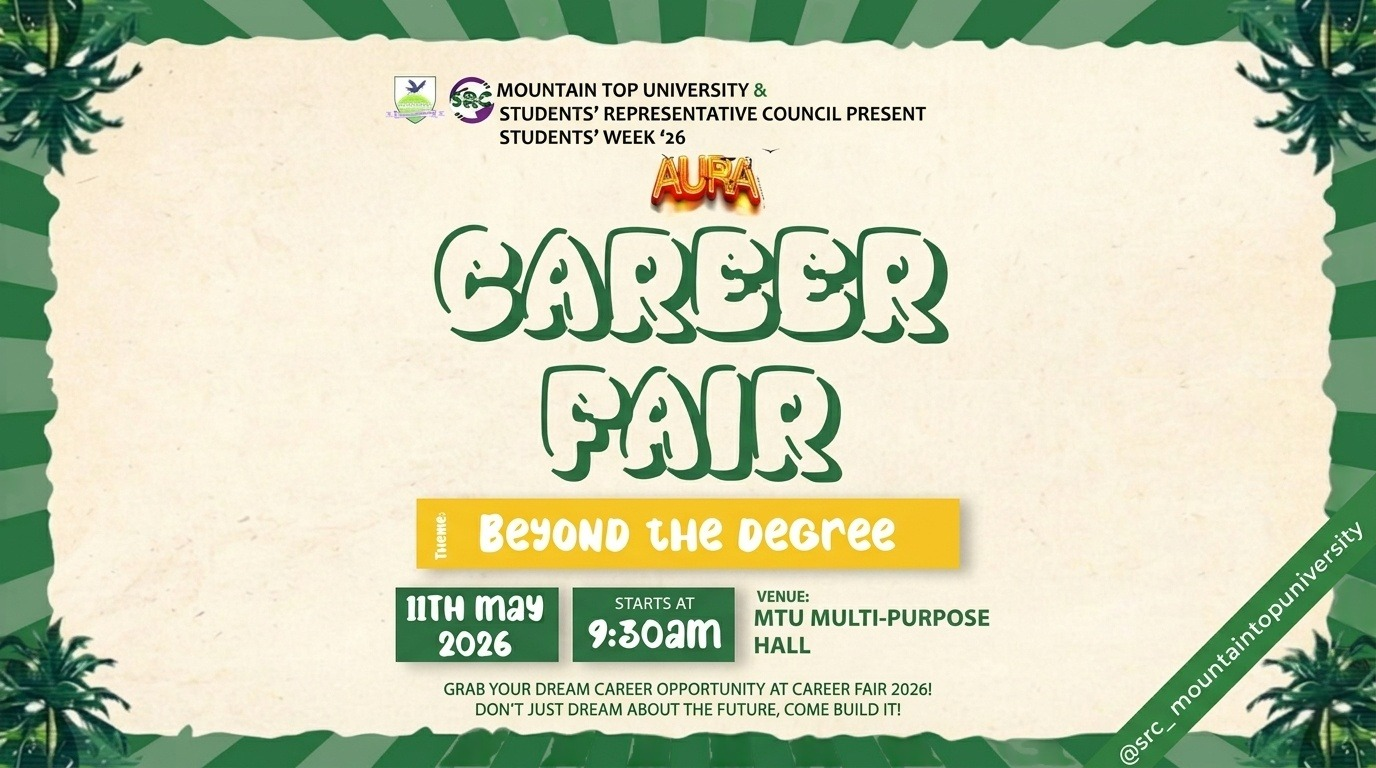
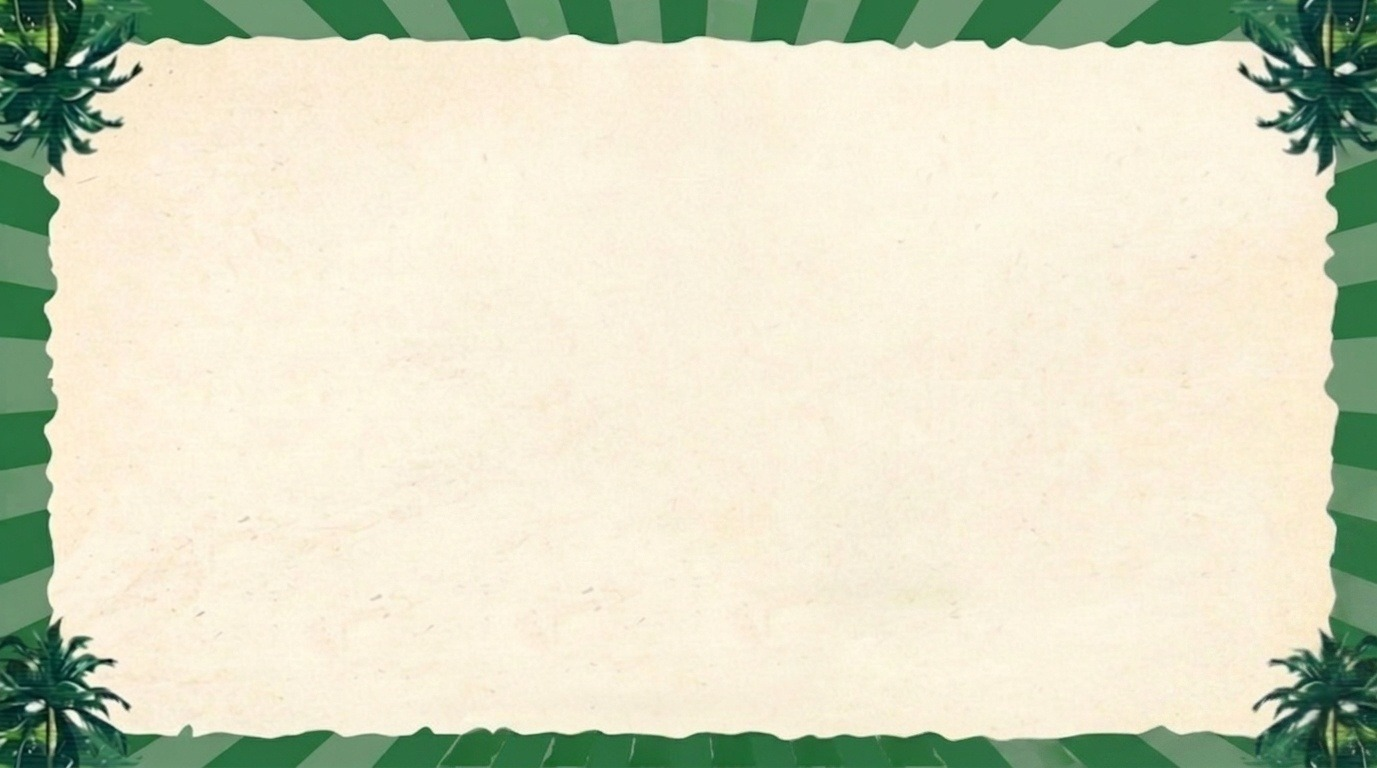
refactor: add new bg-images and edit navbar animations

diff --git a/src/presentation/layout/Navbar.tsx b/src/presentation/layout/Navbar.tsx
@@ -52,7 +52,7 @@ export function Navbar({ event }: NavbarProps) {
           'fixed top-0 left-0 right-0 z-50 transition-all duration-500',
           scrolled
             ? 'bg-[#F2E4CC]/95 backdrop-blur-xl border-b border-[#E3D4B5] shadow-[0_6px_24px_rgba(28,28,28,0.12)]'
-            : 'bg-[#F2E4CC] border-b border-[#E3D4B5]',
+            : 'bg-transparent ',
         )}
       >
         <div className="grid grid-cols-3 items-center px-5 sm:px-8 md:px-12 lg:px-16 h-16 md:h-20">

diff --git a/src/presentation/sections/HeroSection.tsx b/src/presentation/sections/HeroSection.tsx
@@ -44,7 +44,7 @@ export function HeroSection({ event }: HeroSectionProps) {
             transition={{ duration: 1.1, ease: [0.16, 1, 0.3, 1], delay: 0.2 }}
             className="font-instrument italic text-[26vw] md:text-[22vw] lg:text-[18vw] xl:text-[16vw] leading-[0.82] tracking-tight text-[#1A5430] select-none"
           >
-            AURA
+            Beyond The Degree
           </motion.h1>
         </div> */}
 
